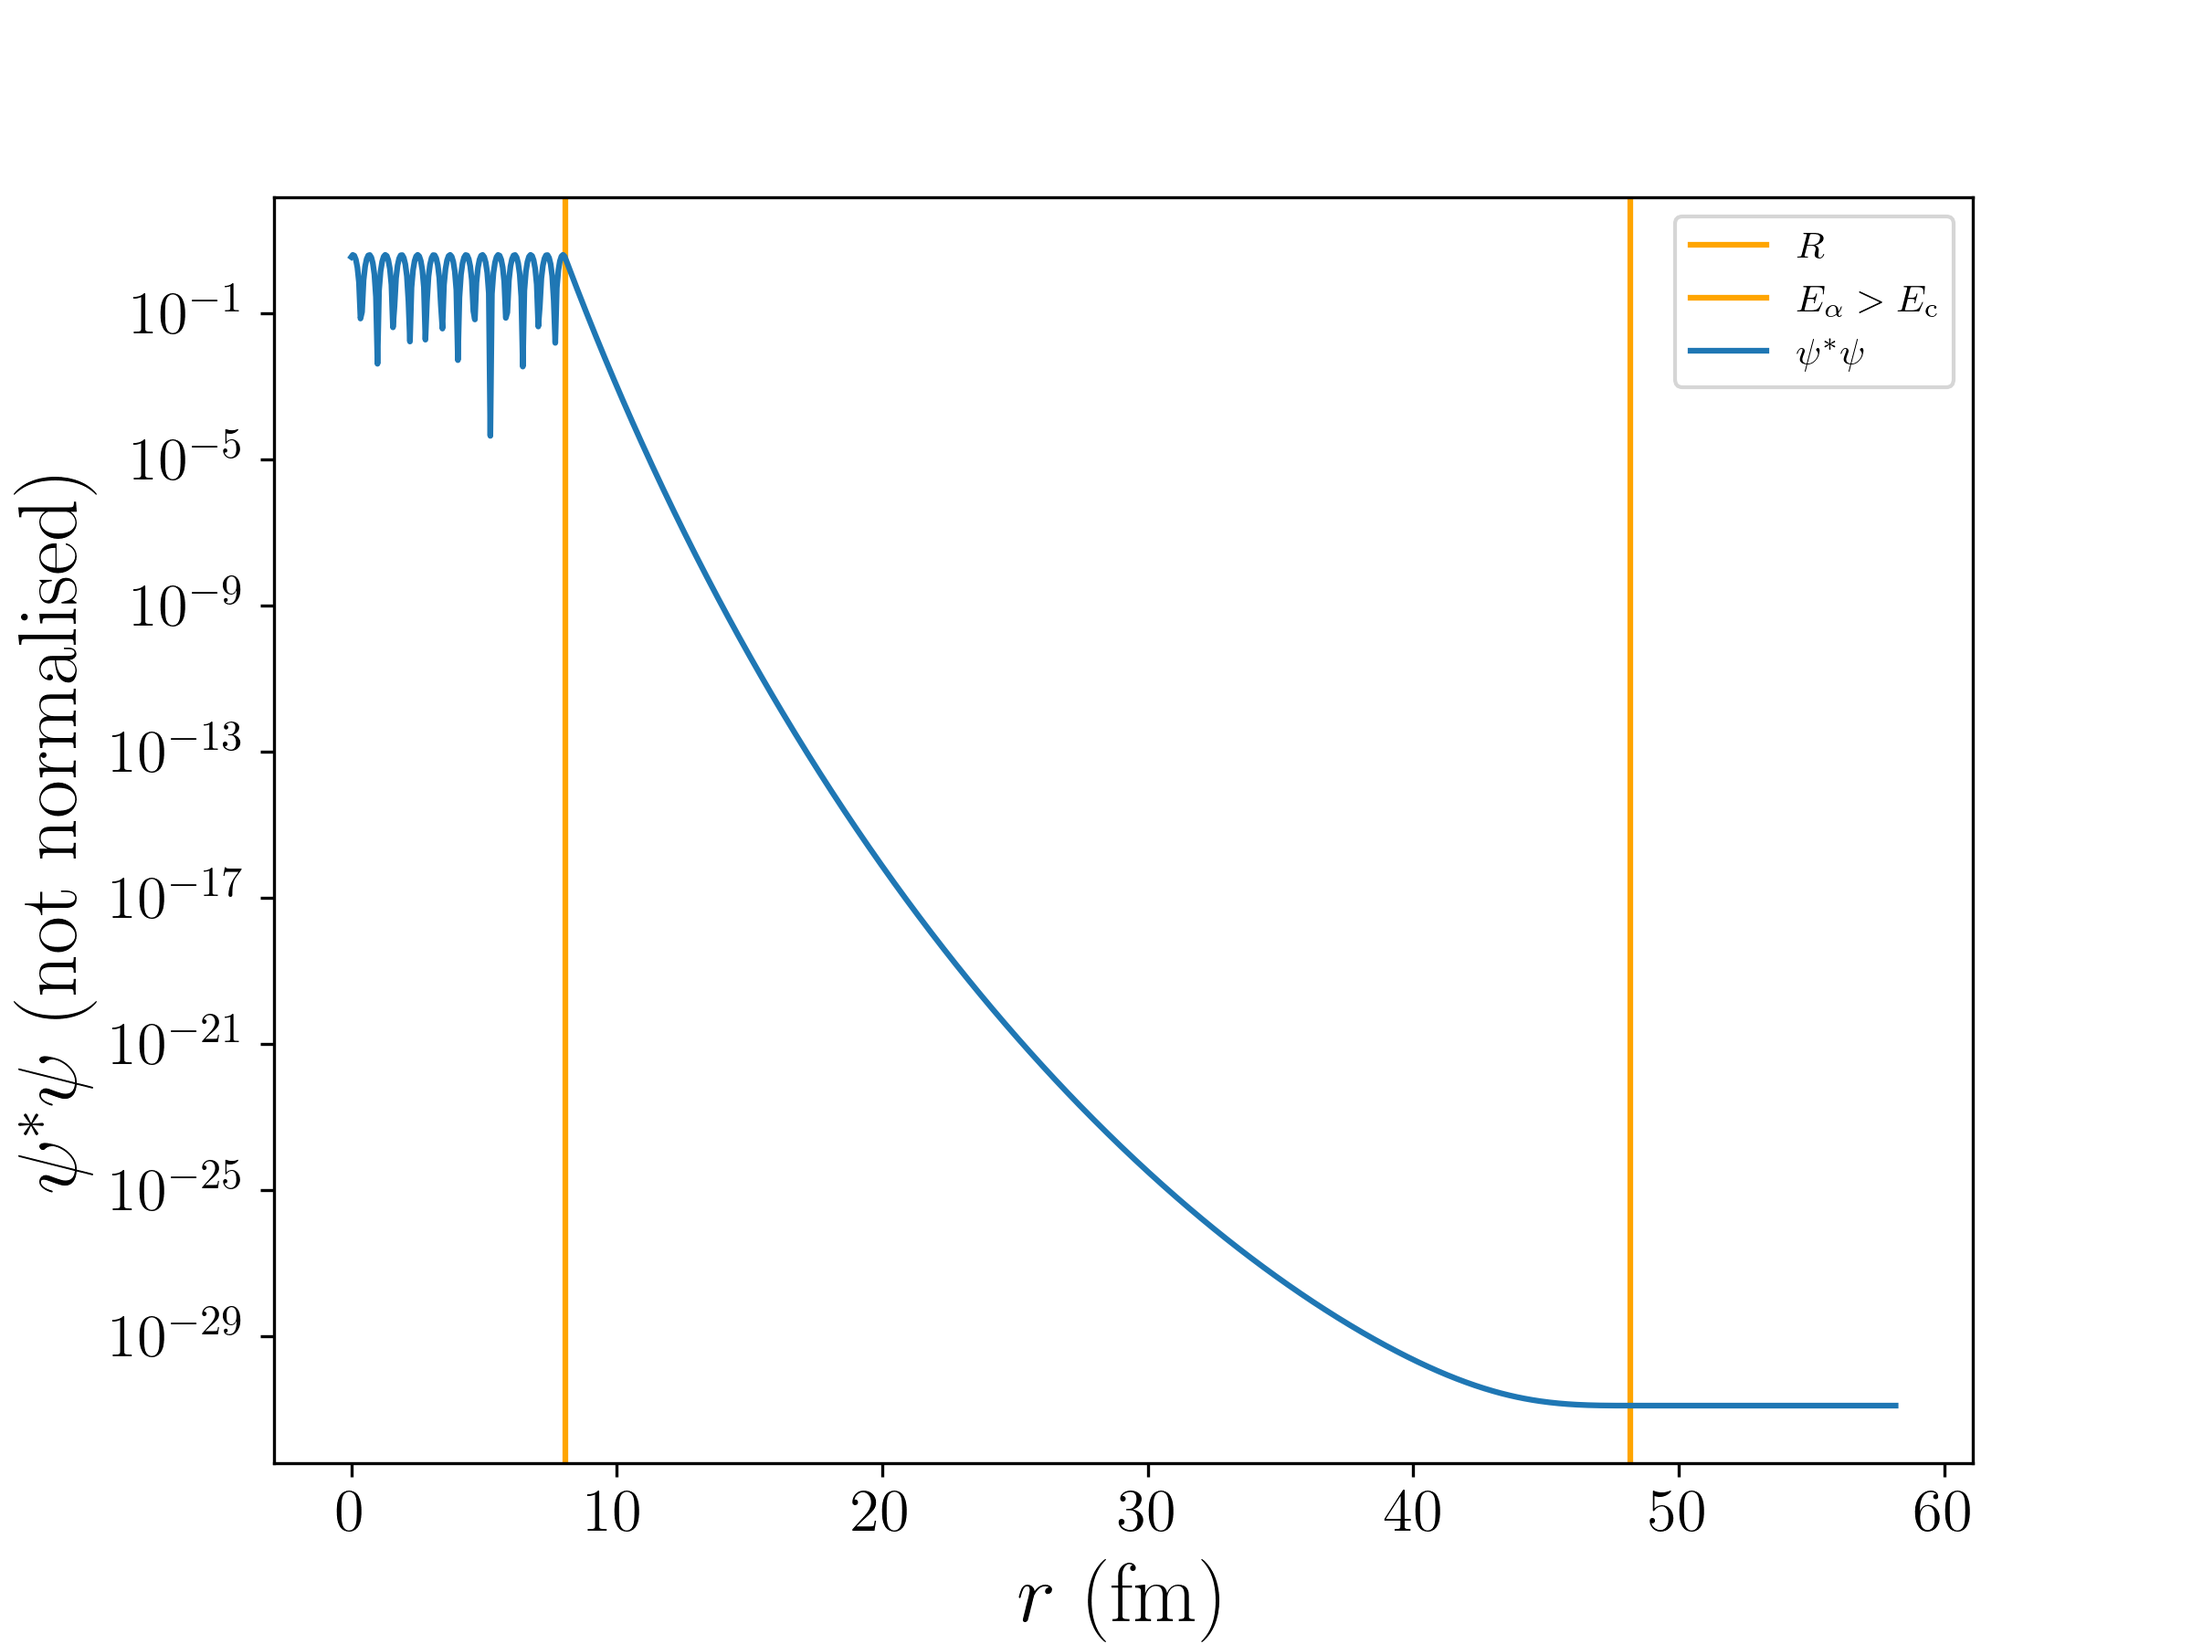
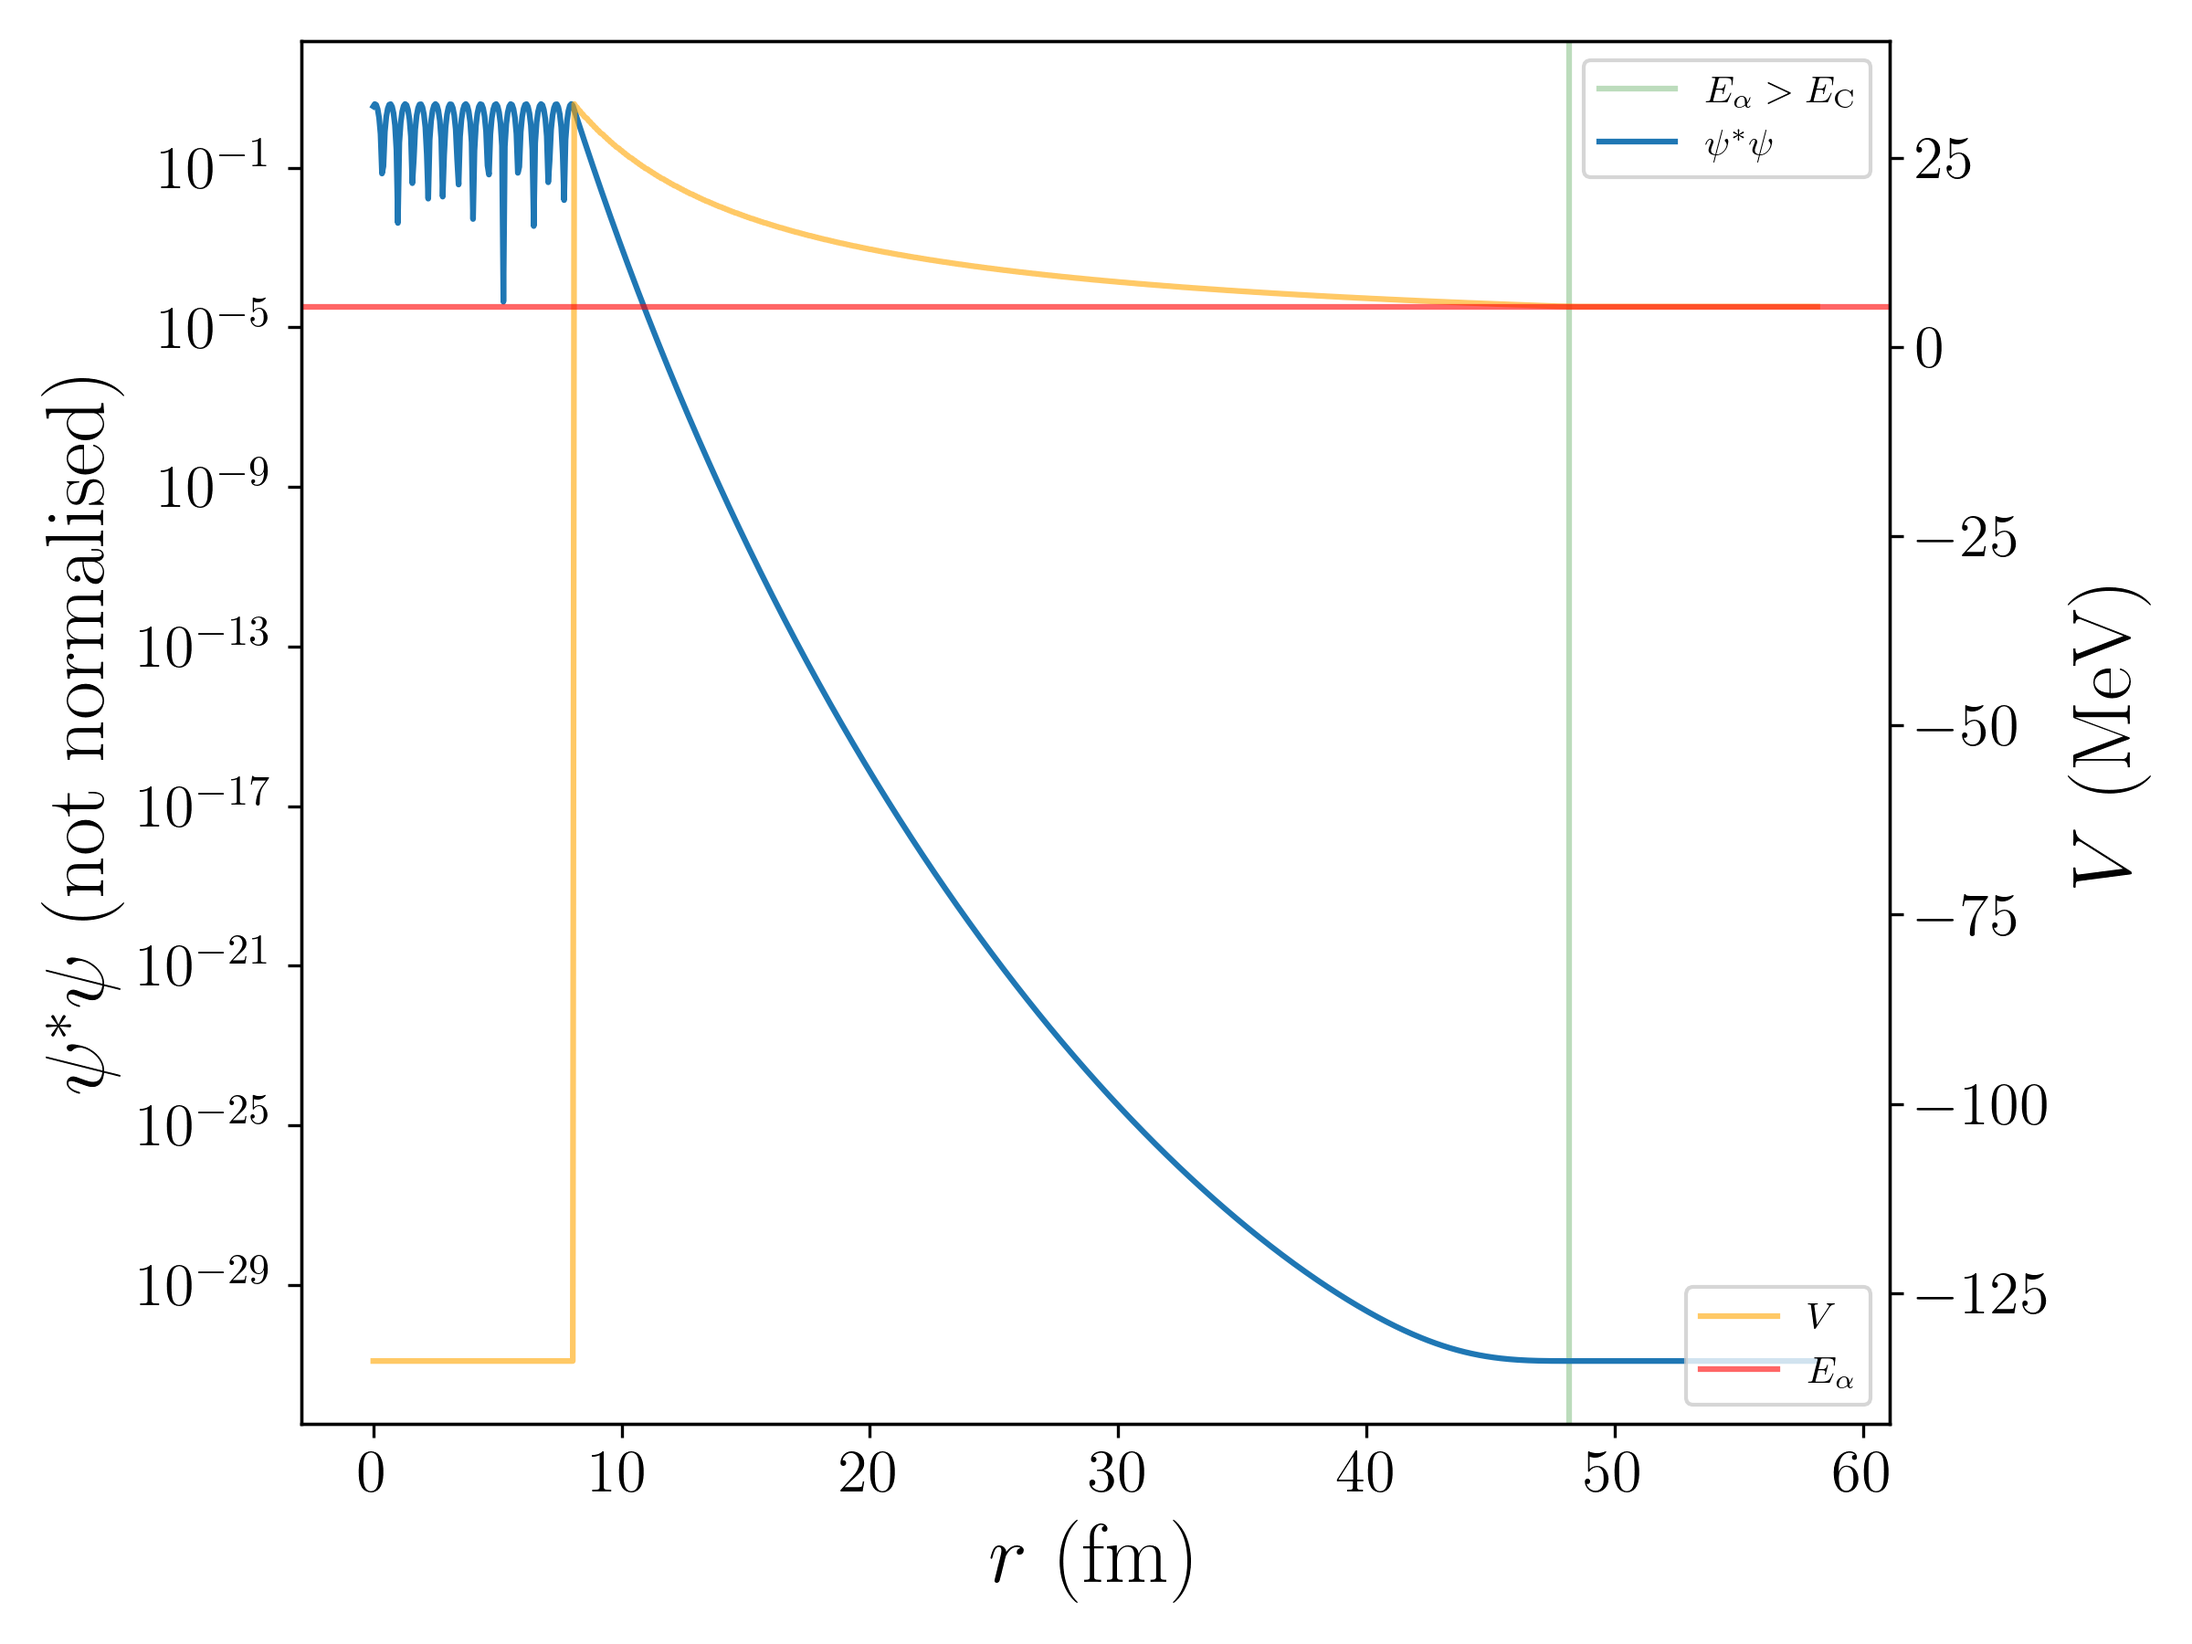
nice plot of density and V

diff --git a/alpha_decay/src/parameter_study.py b/alpha_decay/src/parameter_study.py
@@ -18,18 +18,36 @@ plt.rcParams.update({
 # TODO plotting
 def plot_density(a: alphadecay.Alphadecay, n, path):
     xs = np.linspace(0, a.coulomb_rng + 10, n, dtype=np.double)
+    dx = (a.coulomb_rng - a.R) / a.discr_steps
     density = a.calculate_density(n)
 
+    V = a.piecewise_constant_potential()
+    Vs = np.zeros(n)
+    for i, x in enumerate(xs):
+        if x < a.R:
+            Vs[i] = V[0]
+        elif x >= a.coulomb_rng:
+            Vs[i] = V[-1]
+        else:
+            j = int((x - a.R) / dx) + 1
+            Vs[i] = V[j]
+
     fig, ax = plt.subplots()
-    ax.axvline(a.R, label="$R$", color="orange")
-    ax.axvline(a.coulomb_rng, label="$E_\\alpha > E_\\text{c}$", color="orange")
+    ax2 = ax.twinx()
+    #ax.axvline(a.R, label="$R$", color="forestgreen")
+    ax.axvline(a.coulomb_rng, label="$E_\\alpha > E_\\text{C}$", color="forestgreen", alpha=0.3)
     ax.plot(xs, density, label="$\\psi ^* \\psi$")
+    ax2.plot(xs, Vs, label="$V$", color="orange", alpha=0.6)
+    ax2.axhline(a.E_kin, label="$E_\\alpha$", color="red", alpha=0.6)
     #ax.set_ylim([0, 4])
     ax.set_yscale("log")
     ax.set_xlabel("$r$ (fm)")
     ax.set_ylabel("$\\psi ^* \\psi$ (not normalised)")
-    ax.legend()
+    ax2.set_ylabel("$V$ (MeV)")
+    ax.legend(loc="upper right")
+    ax2.legend(loc="lower right")
 
+    fig.tight_layout()
     fig.savefig(path)
 
 # TODO numerics testing

diff --git a/alpha_decay/src/alphadecay.py b/alpha_decay/src/alphadecay.py
@@ -22,12 +22,11 @@ class Alphadecay:
     E_kin: float
     discr_steps: int
     coulomb_rng: float    
-    mass_dict: mass_dict_type
-    # TODO store A, x in class variables ?
+    mass_dict: mass_dict_type # type: ignore
     solved: bool
-    x: complex64[:]
-    psi: complex64[:]
-    density: float64[:]
+    x: complex64[:] # type: ignore
+    psi: complex64[:] # type: ignore
+    density: float64[:] # type: ignore
 
     # exact coulomb
     # r: distance (fm)
